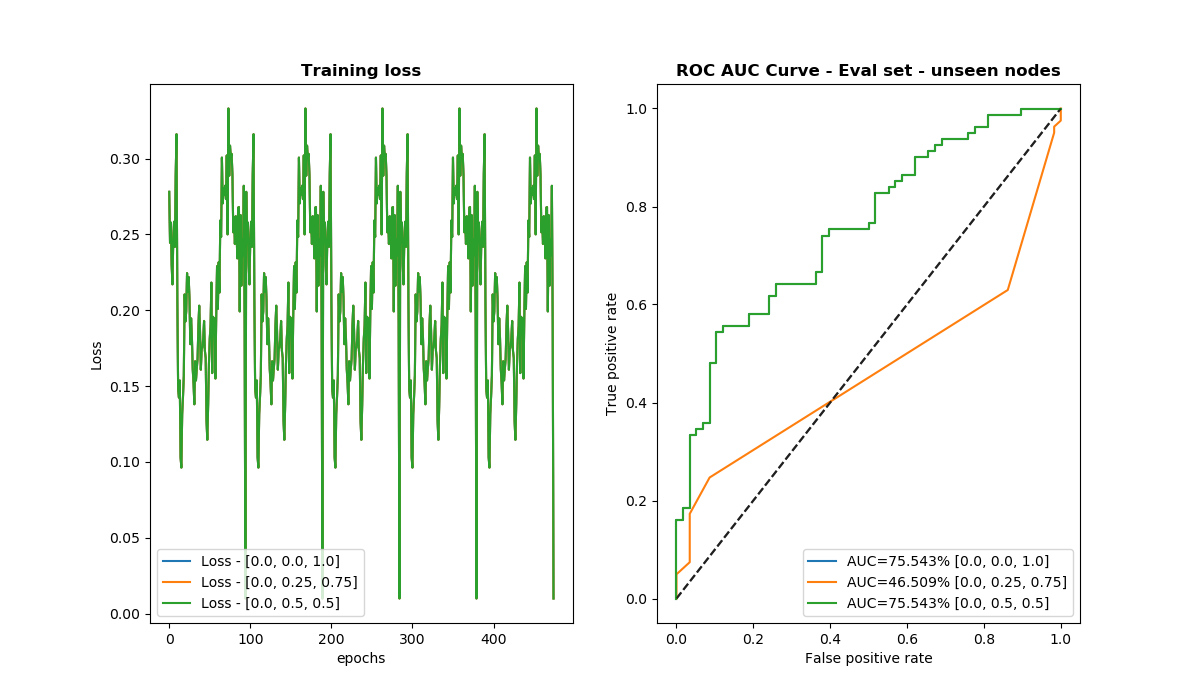
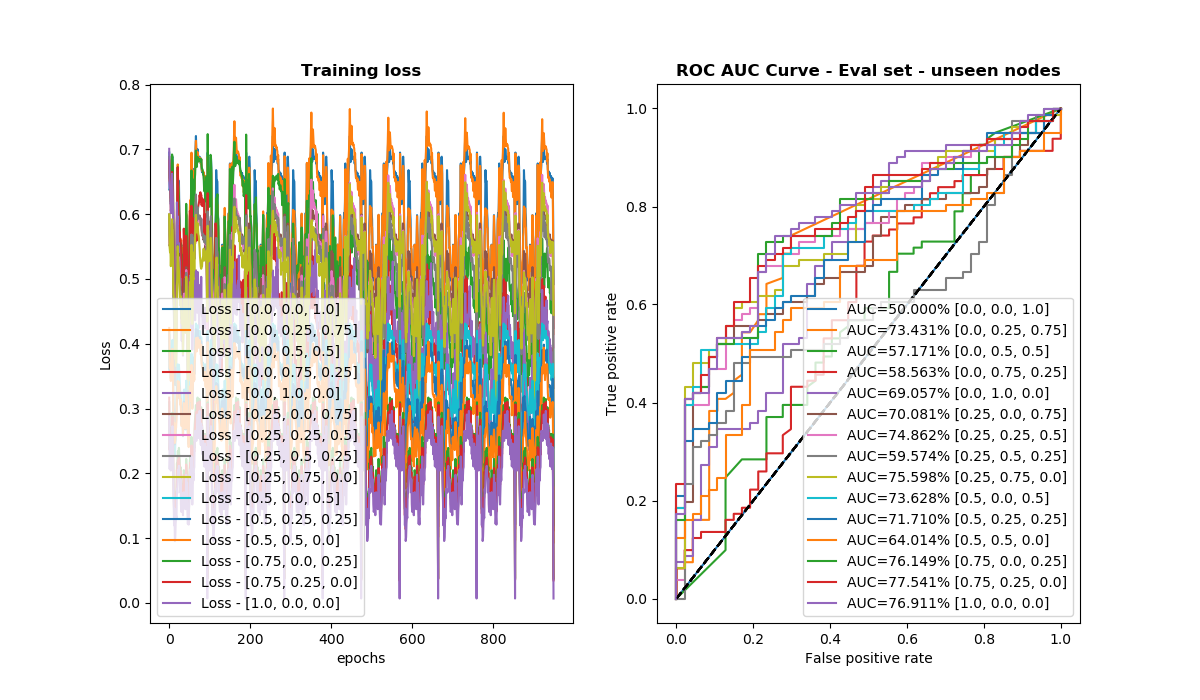
GCN linear combination modified

diff --git a/GNN/src/stream_graph.py b/GNN/src/stream_graph.py
@@ -65,6 +65,11 @@ class StreamGraph():
 
 
     def _reindex_nodes_time(self):
+        ''' Creates a dictionary with reindexed nodes from 0 to :math:`|V|-1`, using the orginial DataFrame. 
+            Output
+            -------
+                res : dict '''
+
         res = {}
         val = 0
         for i, j, t in zip(self.data_df['src'], self.data_df['dest'], self.data_df['t']):
@@ -75,27 +80,23 @@ class StreamGraph():
                 res[f'{j}_{t}'] = val
                 val += 1
         return res
-       
-
-    def _func_update(self, src_node, curr_nodes_list, pos_edge_list, time_idx_nodes, t):
-
-        rows = np.array([], dtype=np.int16)
-        cols = np.array([], dtype=np.int16)
-        data = np.array([], dtype=np.int16)
-
-        curr_nodes_list.remove(src_node) # Self edge is not allowed
-        for i in range(3):
-            neg_edge = (src_node, random.choice(curr_nodes_list)) 
-            if neg_edge not in pos_edge_list:
-                rows = np.append(rows, [time_idx_nodes[f'{src}_{t}'] for src in neg_edge])
-                cols = np.append(cols, [time_idx_nodes[f'{dest}_{t}'] for dest in neg_edge[::-1]])
-                data = np.append(data, [1]*len(rows))
-                break
-
-        return rows, cols, data
 
 
     def __add_temporal_edges_graph(self, g, timerange):
+        ''' Given a `dgl` graph, builds a postive and negative `PDAG` by adding temporal edges. Temporal edge :math:`E(u_t, u_{t+\delta})` is
+            a directed link between node :math:`u` at time :math:`t`, and node :math:`u` at time :math:`t+\delta`, with :math:`\delta` the number
+            of minimal timestep interval between two consecutives events in the dataset.
+
+            Parameters
+            -----------
+                g : `dgl` graph
+                timerange : np.ndarray
+                    Array of all possible timesteps covered by graph g.
+
+            Output
+            -------
+                g_pdag, g_pdag_neg : `dgl` graphs
+                    Graphs with respectively positive and negative edges, as well as temporal edges, for the whole timerange period. '''
 
         # Dictionary with |V| keys, and last k time indexes at which node was seen.
         # This dictionary is useful to gather embeddings of all nodes at last k timesteps.
@@ -195,7 +196,7 @@ class StreamGraph():
 
 
     def __add_temporal_edges(self):
-        ''' If :math:`u(t)` and :math:`u(t+1)` both exist, adds a directed link between :math:`u(t)` and :math:`u(t+1)`. ''' 
+        ''' If :math:`u(t)` and :math:`u(t+\delta)` both exist, adds a directed link between :math:`u(t)` and :math:`u(t+\delta)`. ''' 
 
         self.add_temporal_edges = True
 
@@ -209,7 +210,7 @@ class StreamGraph():
         #    self.test_pos_seen_g = self.__add_temporal_edges_graph(self.test_pos_seen_g, self.trange_test)
 
 
-    def compute_features(self, feat_struct: str, add_self_edges=True, normalized=True, device='cpu'):
+    def compute_features(self, feat_struct: str, add_self_edges=True, normalized=True):
         ''' Attach features to existing graph(s). Features are computed from adjacency matrix of the graph.
         
             Parameters
@@ -225,10 +226,8 @@ class StreamGraph():
                             at which node :math:`u` is present. 
                 add_self_edges: bool (default=True) 
                     If True, add self-edges for each node in graph. 
-                    
-            Output
-            -------
-                Adjacency matrix as a torch tensor. '''
+                normalized : bool (default=True)
+                    If True, normalize adjacency matrix such as :math:`\tild{A}=D^{-1}AD^{-1}` with :math:`D` the matrix of degrees. '''
                             
         print('\nCompute features ...')
         print(f'    Data structure : {feat_struct}')
@@ -302,6 +301,13 @@ class StreamGraph():
 
 
     def create_batches(self, batch_size, timestep=20):
+        ''' Creates lists of batches containing positive and negative edges for training graph. Each batch contains `batch_size` number
+            of timesteps. 
+            
+            Parameters
+            -----------
+                batch_size : int
+                    Number of timesteps in each batch. '''
 
         print('\nCreating batches ...')
         self.batches = True

diff --git a/GNN/src/main.py b/GNN/src/main.py
@@ -43,7 +43,7 @@ def run(data, val_size, test_size, cache, batch_size, feat_struct, step_predicti
     # ------ Compute features ------
     # Features are computed accordingly to data structure and/or model.
     start = time.time()
-    sg.compute_features(feat_struct, add_self_edges=True, normalized=norm, device=device)
+    sg.compute_features(feat_struct, add_self_edges=True, normalized=norm)
     end = time.time()
     print(f'Elapsed time : {end-start}s')
     
@@ -104,7 +104,7 @@ def run(data, val_size, test_size, cache, batch_size, feat_struct, step_predicti
 
             # Training
             start = time.time()
-            print('GCN training ...')
+            print('\nGCN training ...')
             model.train(optimizer=optimizer,
                         predictor=pred,
                         loss=compute_loss,
@@ -123,7 +123,7 @@ def run(data, val_size, test_size, cache, batch_size, feat_struct, step_predicti
 
             # Training
             start = time.time()
-            print('GCN training ...')
+            print('\nGCN training ...')
             model.train(optimizer=optimizer,
                         predictor=pred,
                         loss=compute_loss,
@@ -150,25 +150,27 @@ def run(data, val_size, test_size, cache, batch_size, feat_struct, step_predicti
             for num_triplet, triplet in enumerate(triplets):
                 kwargs['alpha'], kwargs['beta'], kwargs['gamma'] = triplet
 
+                # Model
+                model_full = GCNModelFull(sg.train_pos_batches[0].ndata['feat'].shape[0], emb_size).to(device)
                 # Optimizer
-                optimizer = torch.optim.Adam(itertools.chain(model.parameters()), lr=LR)
+                optimizer = torch.optim.Adam(itertools.chain(model_full.parameters()), lr=LR)
 
                 # Training
                 start = time.time()
-                print(f'GCN training (linear combination parameters : {triplet}) ...')
-                model.train(optimizer=optimizer,
+                print(f'\nGCN training (linear combination parameters : {triplet}) ...')
+                model_full.train(optimizer=optimizer,
                             predictor=pred,
                             loss=compute_loss,
                             device=device,
                             epochs=epochs,
                             **kwargs)
                 end = time.time()
-                trained_models.append(model)
+                trained_models.append(model_full)
                 print(f'Elapsed time : {end-start}s')
                 
         
     # Evaluation
-    print('\n GCN Eval ...')
+    print('\nGCN Eval ...')
     fig, ax = plt.subplots(1, 2, figsize=(12, 7))
 
     if model_name == 'GCN_lc':

diff --git a/GNN/src/gcn.py b/GNN/src/gcn.py
@@ -22,6 +22,10 @@ class GCNModel(nn.Module):
     def train(self, optimizer, predictor, loss, device, epochs, **kwargs):
         
         history = defaultdict(list) # Useful for plots
+
+        # Arguments
+        train_pos_g = kwargs['train_pos_g']
+        train_neg_g = kwargs['train_neg_g']
         
         for epoch in range(epochs):
             
@@ -72,6 +76,7 @@ class GCNModel(nn.Module):
                     else:
                         res_emb[i, :] = torch.zeros(self.embedding_.shape[1])
                 self.embedding_ = res_emb
+
 
             pos_score = predictor(test_pos_g, self.embedding_)
             neg_score = predictor(test_neg_g, self.embedding_)
@@ -276,6 +281,7 @@ class GCNModelFull(GCNModel):
                 #history_emb_tot.append(emb_prev)
         
         self.embedding_ = emb_tot
+        print('model full embedding ', self.embedding_)
         self.history_train_ = history
         #self.history_emb_ = history_emb_tot
         self.history_emb_ = emb_prev

diff --git a/GNN/src/layer.py b/GNN/src/layer.py
@@ -44,14 +44,14 @@ class GCNLayerNonNeighb(GCNLayer):
         curr_nodes = torch.nonzero(g.ndata['feat']).squeeze().unique()
         
         # All nodes set 
-        all_nodes_set = set(g.nodes().numpy())
+        all_nodes_set = set(g.nodes().cpu().detach().numpy())
         
         # Initialize Non-neighbors embedding Tensor
         h_NN = features.clone()
 
         # Update embedding (for active nodes at timestep only) using non-neighbors features
         for node in curr_nodes:
-            non_neighbors_nodes = sample_non_neighbors(g, node, all_nodes_set)
+            non_neighbors_nodes = sample_non_neighbors(g, node.cpu(), all_nodes_set)
             h_NN_tmp = torch.sum(features[non_neighbors_nodes], dim=0)
             h_NN[node] = features[node] + h_NN_tmp
         

diff --git a/GNN/src/utils.py b/GNN/src/utils.py
@@ -79,7 +79,7 @@ def sample_non_neighbors(g, node, all_nodes):
     # Neighbors nodes
     src_nodes = dgl.in_subgraph(g, int(node)).edges()[0]
     # Non neighbors nodes
-    non_neighb_nodes = np.array(list(all_nodes - set(src_nodes.numpy())))
+    non_neighb_nodes = np.array(list(all_nodes - set(src_nodes.cpu().numpy())))
     
     return torch.from_numpy(non_neighb_nodes)
 
